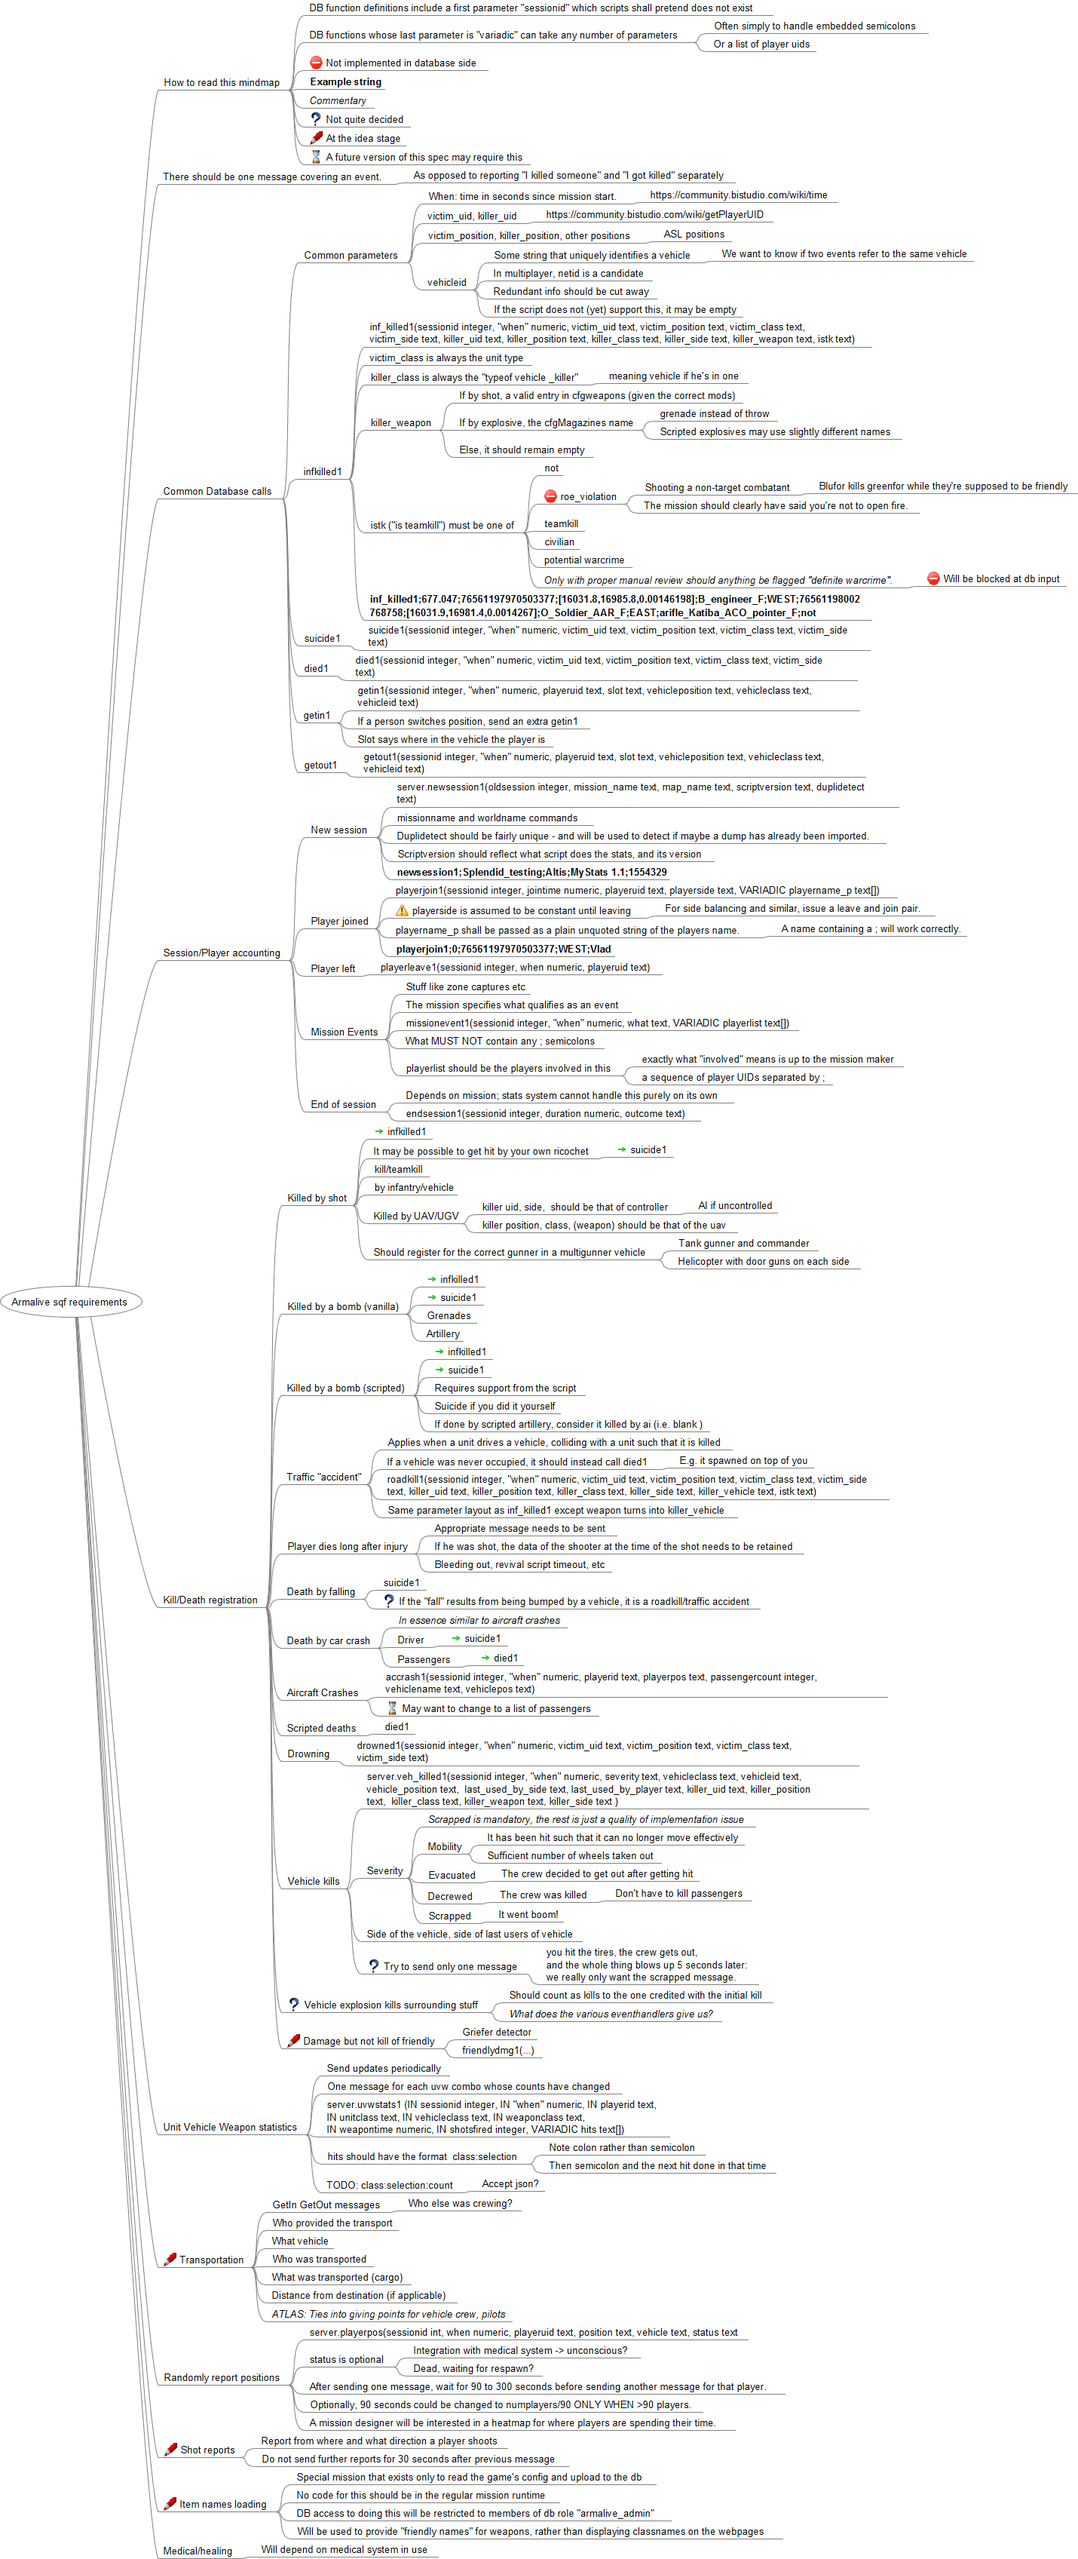
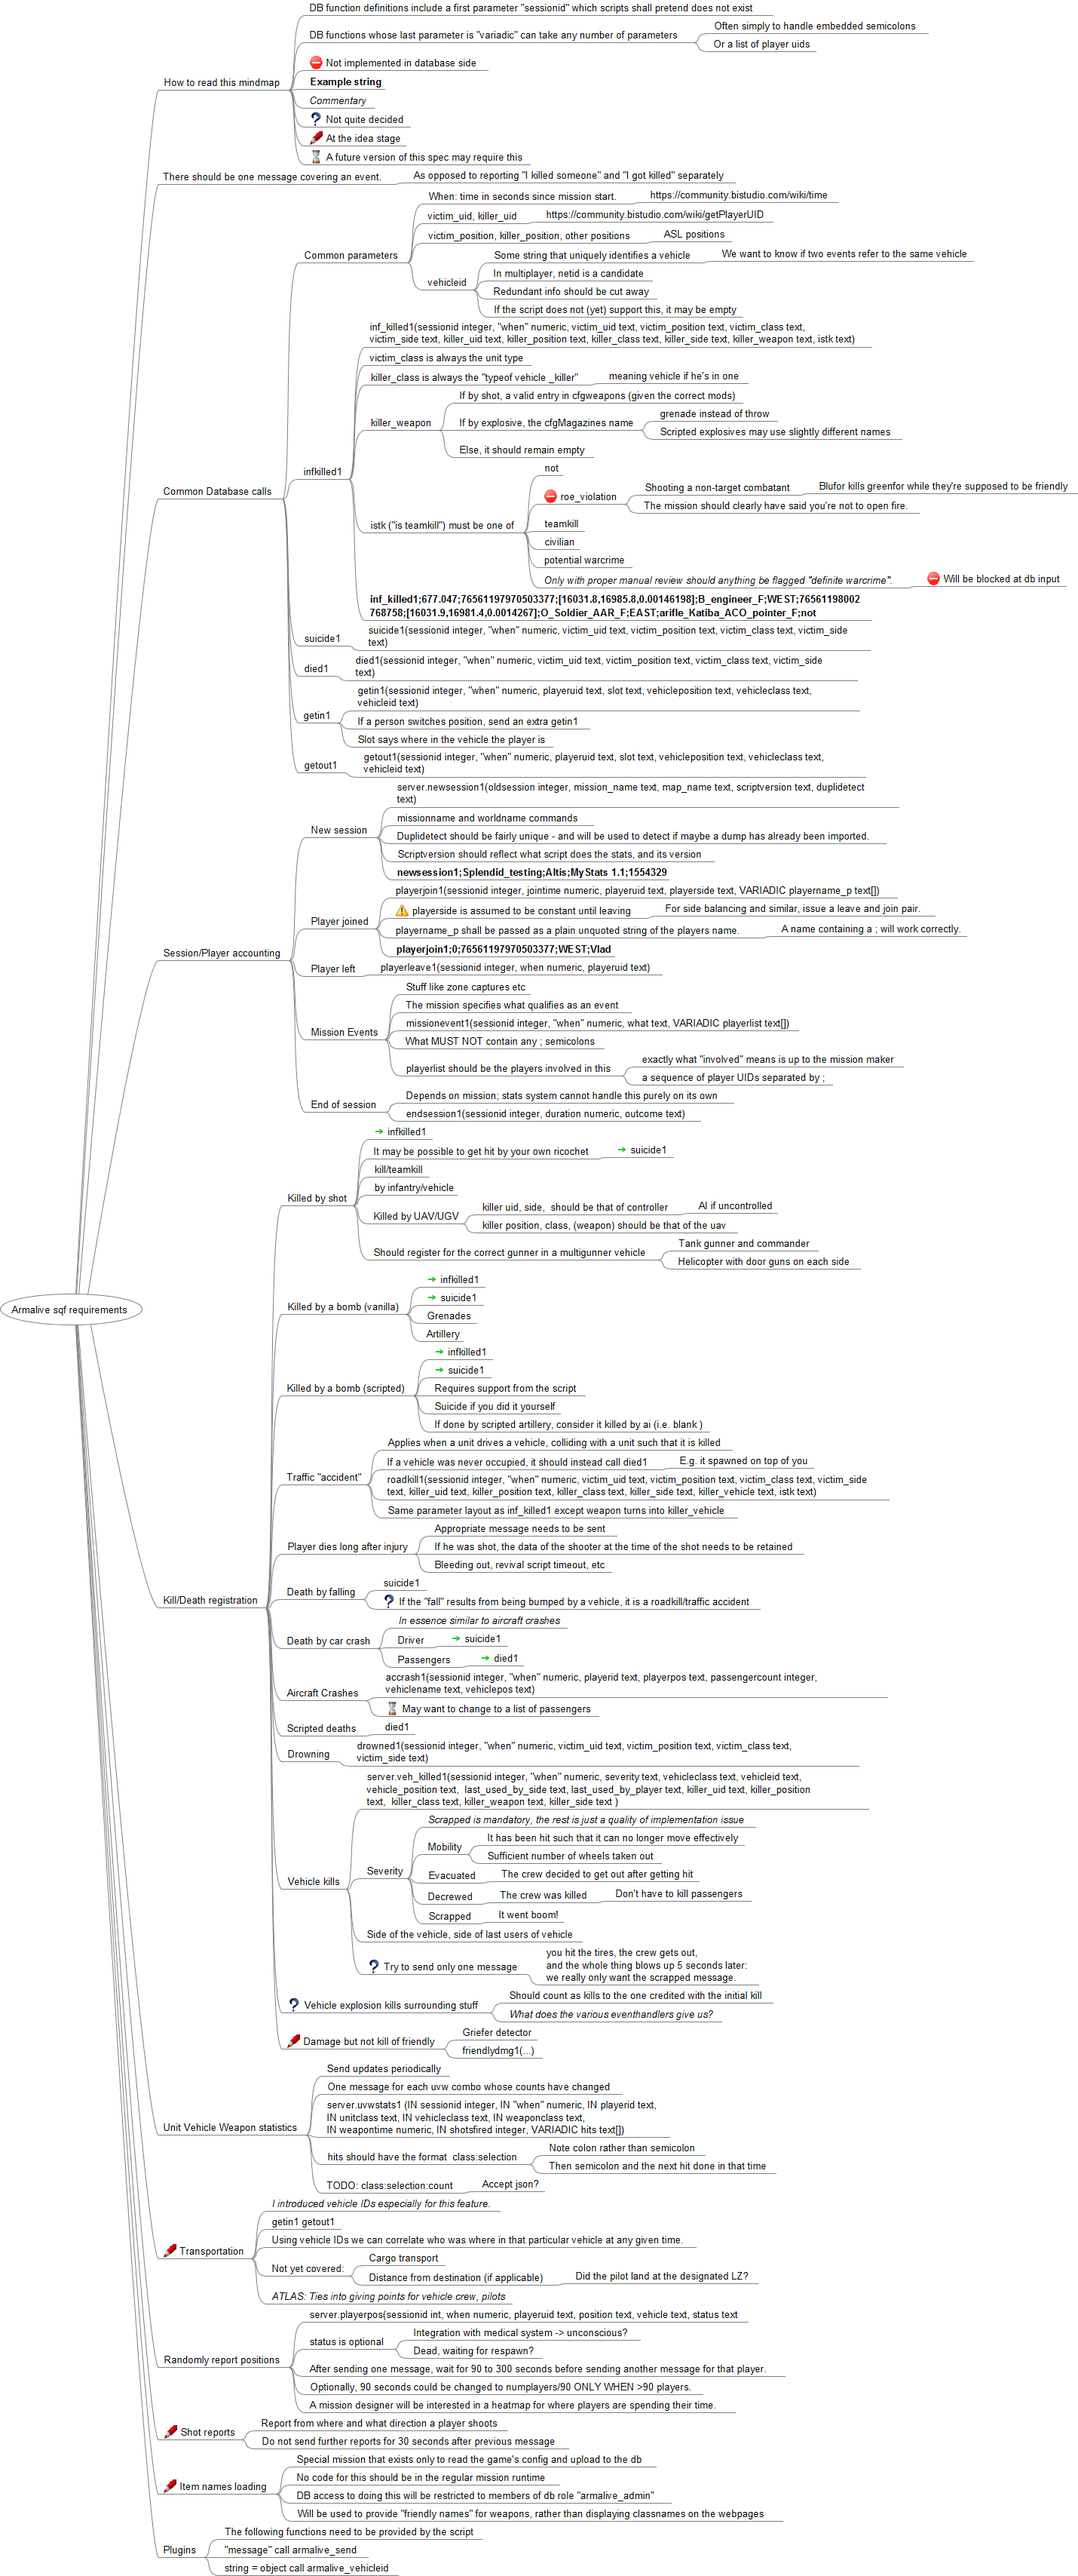
DB added getin1 getout1

diff --git a/doc/Armalive sqf requirements.mm b/doc/Armalive sqf requirements.mm
@@ -1,7 +1,7 @@
 <map version="1.0.1">
 <!-- To view this file, download free mind mapping software FreeMind from http://freemind.sourceforge.net -->
 <node CREATED="1410980050572" ID="ID_142879548" MODIFIED="1411257087521" TEXT="Armalive sqf requirements">
-<node CREATED="1411246710059" ID="ID_229996467" MODIFIED="1417427662398" POSITION="right" TEXT="How to read this mindmap">
+<node CREATED="1411246710059" ID="ID_229996467" MODIFIED="1417896318096" POSITION="right" TEXT="How to read this mindmap">
 <node CREATED="1411246733255" ID="ID_1525291828" MODIFIED="1411246773229" TEXT="DB function definitions include a first parameter &quot;sessionid&quot; which scripts shall pretend does not exist"/>
 <node CREATED="1417426503642" ID="ID_529498786" MODIFIED="1417426529844" TEXT="DB functions whose last parameter is &quot;variadic&quot; can take any number of parameters">
 <node CREATED="1417426539001" ID="ID_865648012" MODIFIED="1417426565125" TEXT="Often simply to handle embedded semicolons"/>
@@ -26,7 +26,7 @@
 <icon BUILTIN="hourglass"/>
 </node>
 </node>
-<node CREATED="1411189292156" ID="ID_724230088" MODIFIED="1417552062852" POSITION="right" TEXT="There should be one message covering an event.">
+<node CREATED="1411189292156" ID="ID_724230088" MODIFIED="1417896317161" POSITION="right" TEXT="There should be one message covering an event.">
 <node CREATED="1417551656866" ID="ID_1044625380" MODIFIED="1417551674615" TEXT="As opposed to reporting &quot;I killed someone&quot; and &quot;I got killed&quot; separately"/>
 </node>
 <node CREATED="1411248645565" ID="ID_1045708319" MODIFIED="1417430401635" POSITION="right" TEXT="Common Database calls">
@@ -269,16 +269,19 @@
 <node CREATED="1417454138522" ID="ID_1255301048" MODIFIED="1417454169333" TEXT="Accept json?"/>
 </node>
 </node>
-<node CREATED="1411243542252" ID="ID_737534664" MODIFIED="1413854266382" POSITION="right" TEXT="Transportation">
+<node CREATED="1411243542252" ID="ID_737534664" MODIFIED="1417864938887" POSITION="right" TEXT="Transportation">
 <icon BUILTIN="pencil"/>
-<node CREATED="1413854284235" ID="ID_82021336" MODIFIED="1413854291857" TEXT="GetIn GetOut messages">
-<node CREATED="1413854292927" ID="ID_1253693988" MODIFIED="1413854312256" TEXT="Who else was crewing?"/>
+<node CREATED="1417557912365" ID="ID_1489265990" MODIFIED="1417557939514" TEXT="I introduced vehicle IDs especially for this feature.">
+<font ITALIC="true" NAME="Arial" SIZE="12"/>
 </node>
-<node CREATED="1411243861985" ID="ID_999191678" MODIFIED="1411244142068" TEXT="Who provided the transport"/>
-<node CREATED="1411244142478" ID="ID_1049682278" MODIFIED="1411244144399" TEXT="What vehicle"/>
-<node CREATED="1411244144687" ID="ID_301443479" MODIFIED="1411244147231" TEXT="Who was transported"/>
-<node CREATED="1411247907544" ID="ID_1538023174" MODIFIED="1411247912955" TEXT="What was transported (cargo)"/>
-<node CREATED="1411255664267" ID="ID_215043465" MODIFIED="1411255671402" TEXT="Distance from destination (if applicable)"/>
+<node CREATED="1417557989131" ID="ID_1483375683" MODIFIED="1417557997994" TEXT="getin1 getout1"/>
+<node CREATED="1417558003274" ID="ID_336024760" MODIFIED="1417558027250" TEXT="Using vehicle IDs we can correlate who was where in that particular vehicle at any given time."/>
+<node CREATED="1417558072807" ID="ID_539542054" MODIFIED="1417558076097" TEXT="Not yet covered:">
+<node CREATED="1417558047371" ID="ID_635918074" MODIFIED="1417558081154" TEXT="Cargo transport"/>
+<node CREATED="1411255664267" ID="ID_215043465" MODIFIED="1411255671402" TEXT="Distance from destination (if applicable)">
+<node CREATED="1417558089376" ID="ID_904173691" MODIFIED="1417558101378" TEXT="Did the pilot land at the designated LZ?"/>
+</node>
+</node>
 <node CREATED="1411244174929" ID="ID_668636325" MODIFIED="1411244279078" TEXT="ATLAS: Ties into giving points for vehicle crew, pilots">
 <font ITALIC="true" NAME="SansSerif" SIZE="12"/>
 </node>
@@ -293,20 +296,22 @@
 <node CREATED="1415042079215" ID="ID_1932459428" MODIFIED="1415042107639" TEXT="Optionally, 90 seconds could be changed to numplayers/90 ONLY WHEN &gt;90 players."/>
 <node CREATED="1415042143564" ID="ID_1201145061" MODIFIED="1415042289648" TEXT="A mission designer will be interested in a heatmap for where players are spending their time."/>
 </node>
-<node CREATED="1411244916068" ID="ID_464897636" MODIFIED="1414405974456" POSITION="right" TEXT="Shot reports">
+<node CREATED="1411244916068" ID="ID_464897636" MODIFIED="1417896323719" POSITION="right" TEXT="Shot reports">
 <icon BUILTIN="pencil"/>
 <node CREATED="1411244921154" ID="ID_1879609824" MODIFIED="1411244938645" TEXT="Report from where and what direction a player shoots"/>
 <node CREATED="1411244941078" ID="ID_1337826126" MODIFIED="1411244967657" TEXT="Do not send further reports for 30 seconds after previous message"/>
 </node>
-<node CREATED="1415042504868" ID="ID_577364655" MODIFIED="1415042523961" POSITION="right" TEXT="Item names loading">
+<node CREATED="1415042504868" ID="ID_577364655" MODIFIED="1417896322517" POSITION="right" TEXT="Item names loading">
 <icon BUILTIN="pencil"/>
 <node CREATED="1415042528454" ID="ID_633310394" MODIFIED="1415042568303" TEXT="Special mission that exists only to read the game&apos;s config and upload to the db"/>
 <node CREATED="1415042571990" ID="ID_1364621973" MODIFIED="1415042599574" TEXT="No code for this should be in the regular mission runtime"/>
 <node CREATED="1415042614572" ID="ID_1077173574" MODIFIED="1415042634598" TEXT="DB access to doing this will be restricted to members of db role &quot;armalive_admin&quot;"/>
 <node CREATED="1415042648107" ID="ID_1421315635" MODIFIED="1415042685479" TEXT="Will be used to provide &quot;friendly names&quot; for weapons, rather than displaying classnames on the webpages"/>
 </node>
-<node CREATED="1411245441833" ID="ID_1051322261" MODIFIED="1415042703516" POSITION="right" TEXT="Medical/healing">
-<node CREATED="1411245482148" ID="ID_419922949" MODIFIED="1411245488412" TEXT="Will depend on medical system in use"/>
+<node CREATED="1411245441833" ID="ID_1051322261" MODIFIED="1417864806677" POSITION="right" TEXT="Plugins">
+<node CREATED="1411245482148" ID="ID_419922949" MODIFIED="1417864832438" TEXT="The following functions need to be provided by the script"/>
+<node CREATED="1417864833223" ID="ID_652090765" MODIFIED="1417864853530" TEXT="&quot;message&quot; call armalive_send"/>
+<node CREATED="1417864854845" ID="ID_471239876" MODIFIED="1417864893616" TEXT="string = object call armalive_vehicleid"/>
 </node>
 </node>
 </map>
